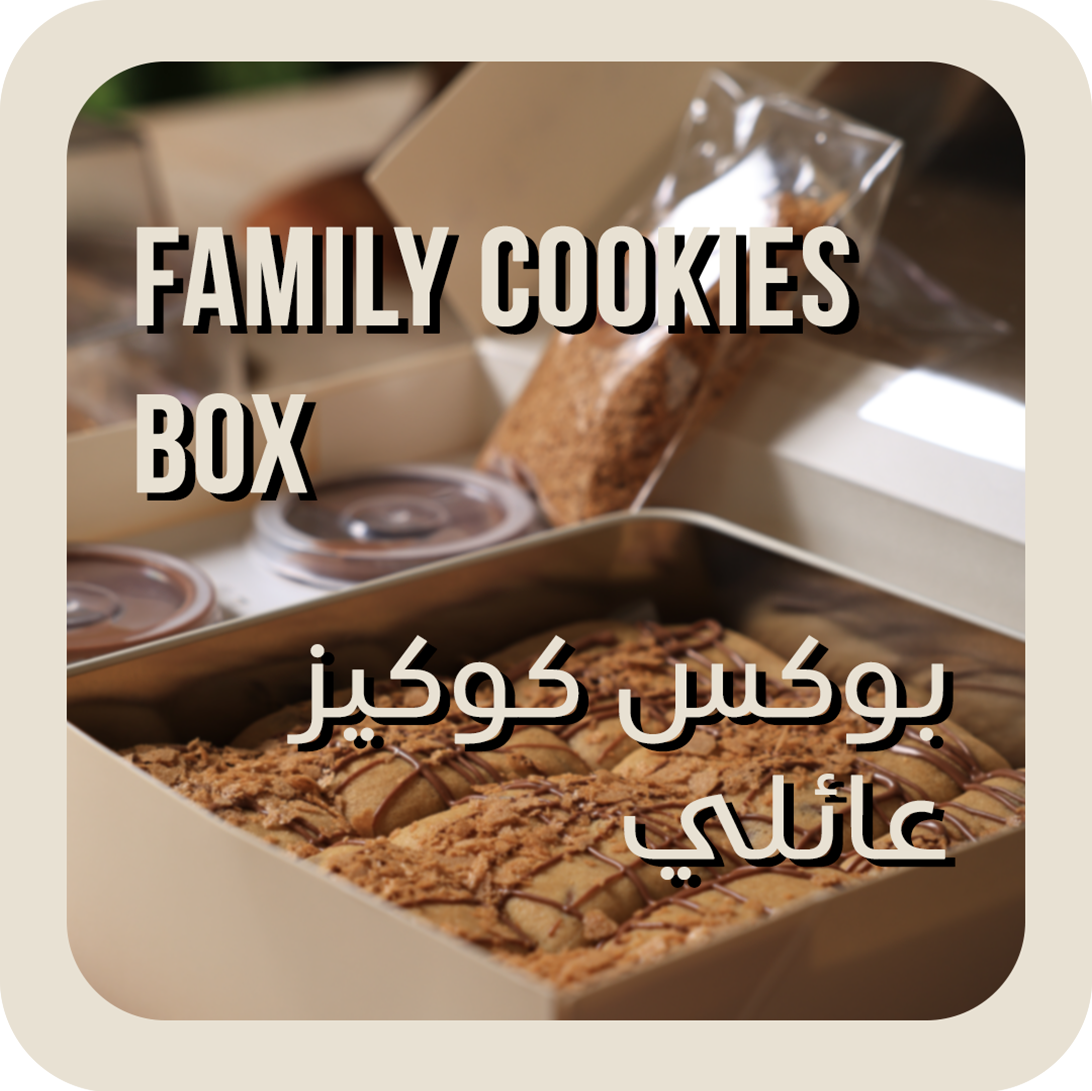
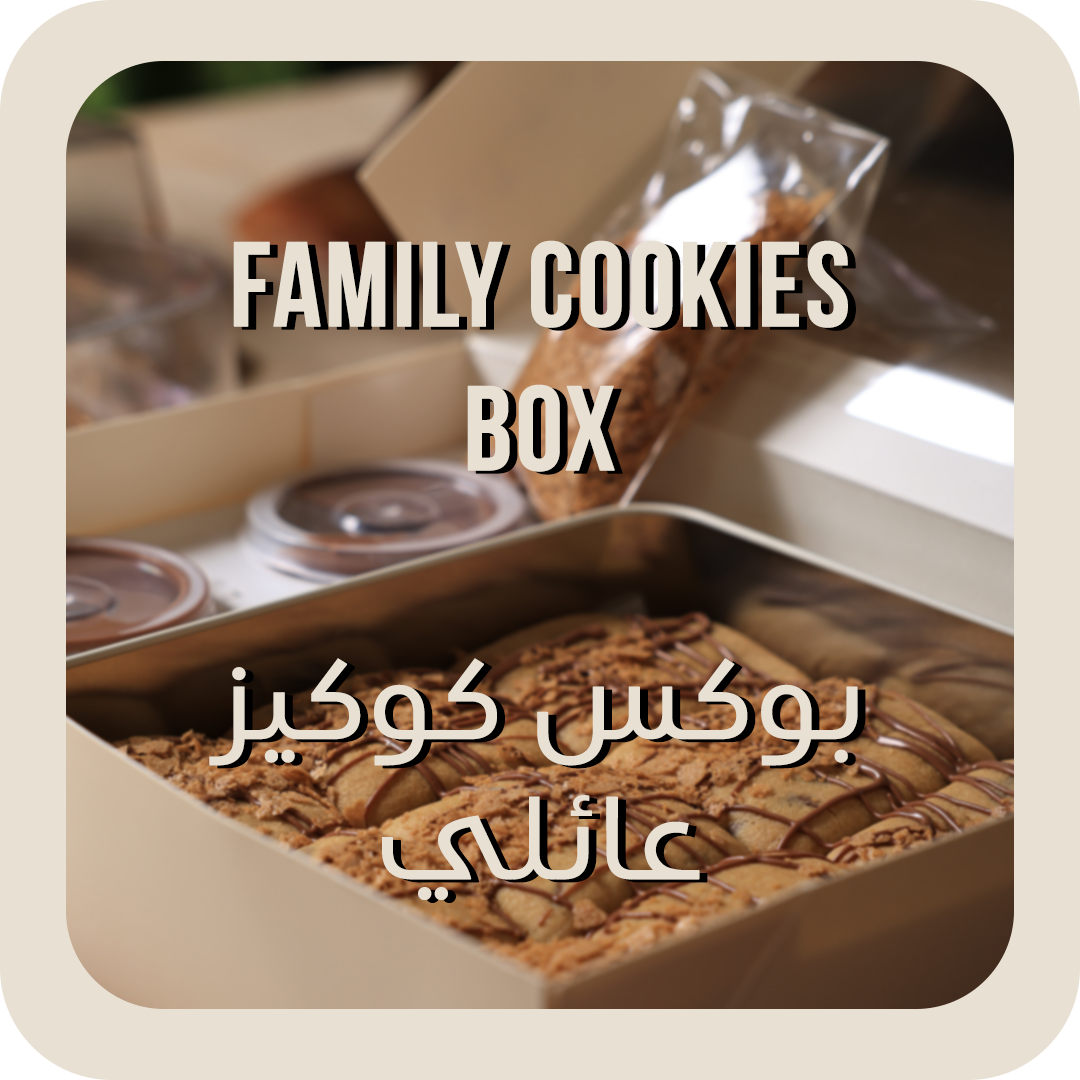
8

diff --git a/Lend.js b/Lend.js
@@ -99,7 +99,7 @@ function showWelcomeMessage() {
         <p class="welcome-text">ايش حاب تطلب اليوم؟</p>
         <div class="options-container">
             <button class="option-btn" id="dessertBtn">الحلويات</button>
-            <button class="option-btn" id="coffeeBtn">قهوة</button>
+            <button class="option-btn" id="coffeeBtn">القهوة</button>
             <button class="option-btn option-btn-full" id="gatheringBtn">الجمعات</button>
         </div>
         <p class="pre-order-text">${preOrderMessage}</p>
